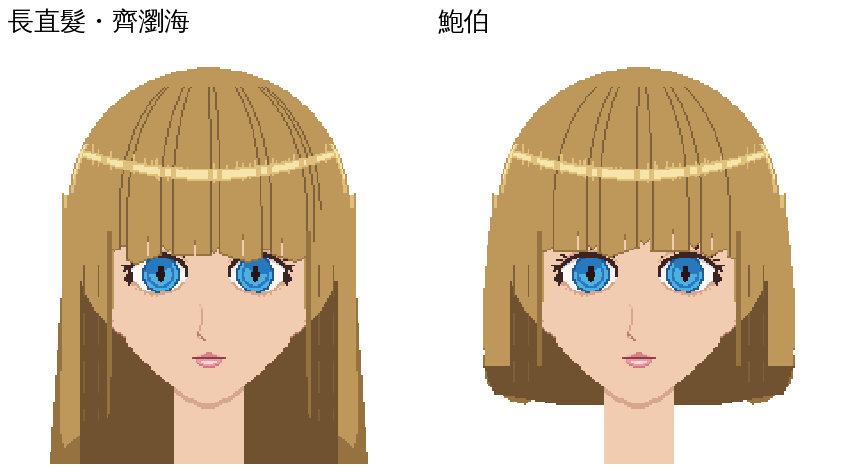
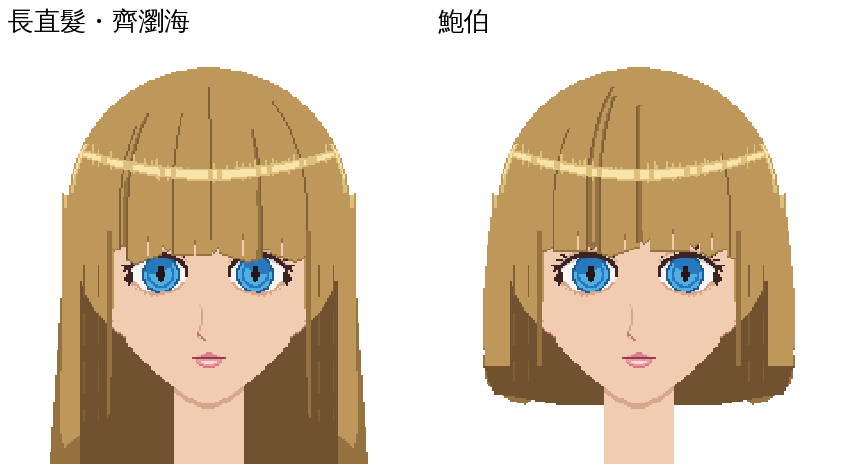
droom 臉模 v2：瀏海分界線不規則（使用者）——約 3 成不畫、4 成細線、3 成粗陰影（越往髮尾越寬 1→3 格，長在被壓住的那一邊）；起點、終點長短不一
Claude-Session: https://claude.ai/code/session_01FDQv7ddy7JMjePn6AqJ3VJ

diff --git a/web/droom/face_mold/v2/hair_one.py b/web/droom/face_mold/v2/hair_one.py
@@ -111,10 +111,25 @@ def render(img,stage):
     for y in range(BANG_Y-h,BANG_Y+3):
       if bangs[y,x]:out[y,x]=(242,204,177) if y>BANG_Y-h+2 else C['sh']
   # 7 髮絲：沿著經線（從髮旋順著頭的圓弧往下，到瀏海下緣），只畫中下段
+  # 使用者 2026-11-19：分界線不是每條都有——有的沒畫、有的細、有的是比較粗的陰影；長短也不一樣
+  import random
+  rl=random.Random(5 if HS!='bob' else 9)
+  ytop,ybot=int(CY-RO*.86),BANG_Y+6
   for ph in MER[1:-1]:
-    for y in range(int(CY-RO*.86),BANG_Y+6):
+    kind=rl.choices(['none','thin','thick'],[.3,.42,.28])[0]
+    if kind=='none':continue
+    y0=rl.randint(ytop,int(CY-RO*.35));y1=ybot if rl.random()<.7 else rl.randint(int(CY-RO*.1),ybot)
+    side=rl.choice([-1,1])                                  # 粗陰影長在分界的哪一邊（被另一束壓住的那邊）
+    for y in range(y0,y1):
       x=round(mer_x(ph,y))
-      if bangs[y,x] and tuple(out[y,x])==C['mid']:out[y,x]=C['ln']
+      if not bangs[y,x]:continue
+      t=(y-y0)/max(1,y1-y0)
+      if tuple(out[y,x])==C['mid']:out[y,x]=C['ln']
+      if kind=='thick':                                     # 越往髮尾越寬（1→3 格），外側用陰影色
+        w=1+int(2.2*t)
+        for k in range(1,w+1):
+          xx=x+side*k
+          if 0<=xx<N and bangs[y,xx] and tuple(out[y,xx])==C['mid']:out[y,xx]=C['sh']
   for s in(-1,1):
     for x in(CX+s*62,CX+s*70):
       for y in range(140,232 if HS!='bob' else 210):
